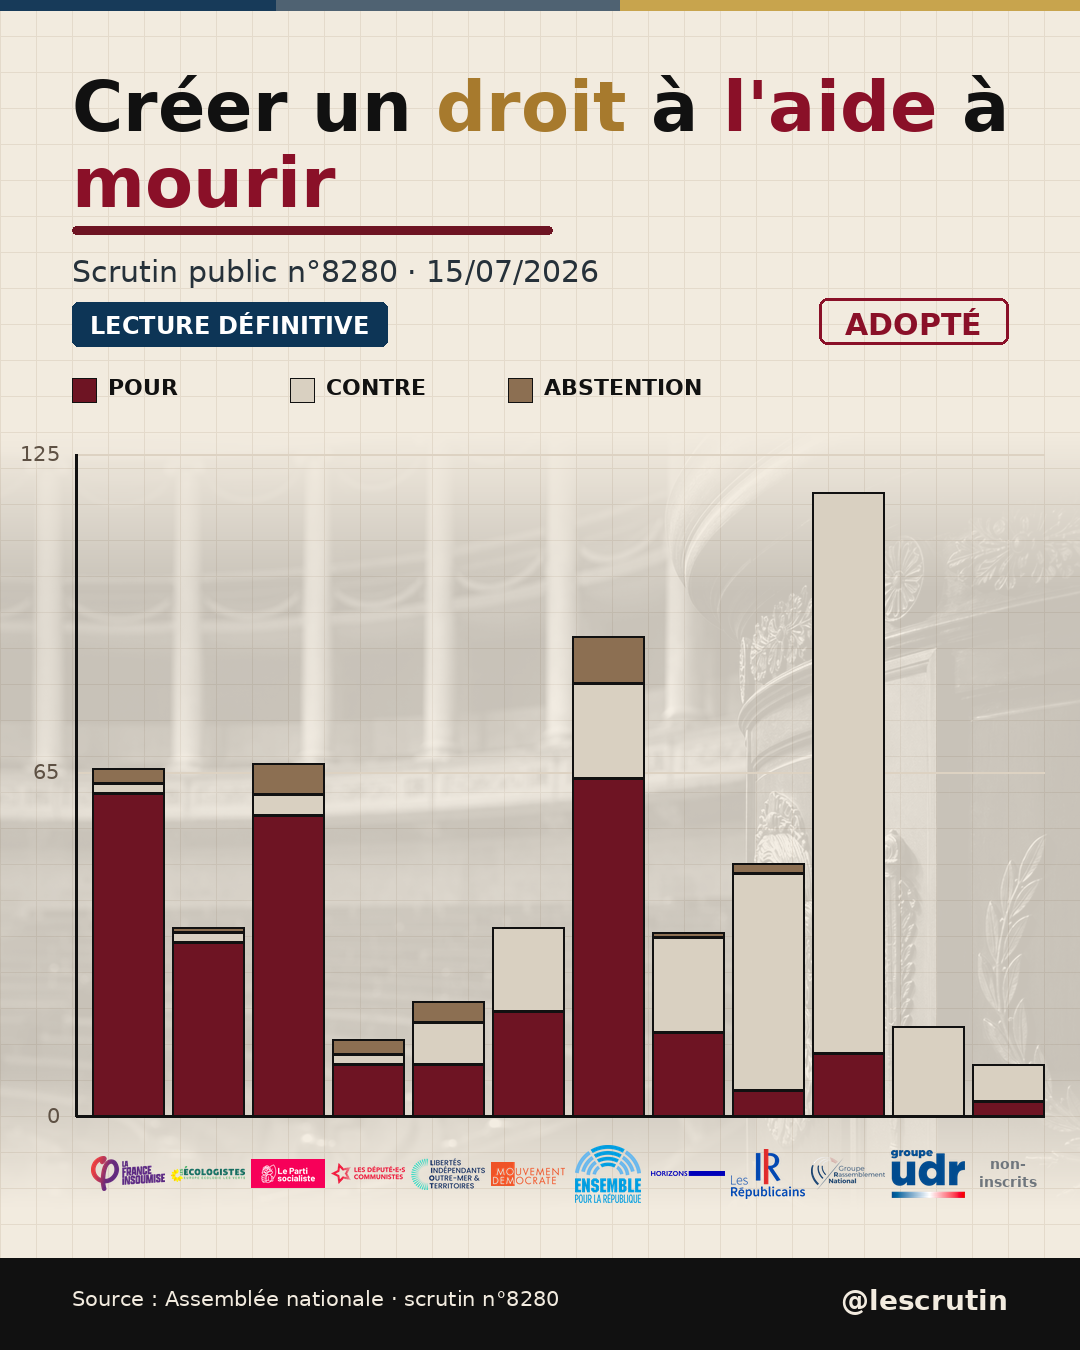
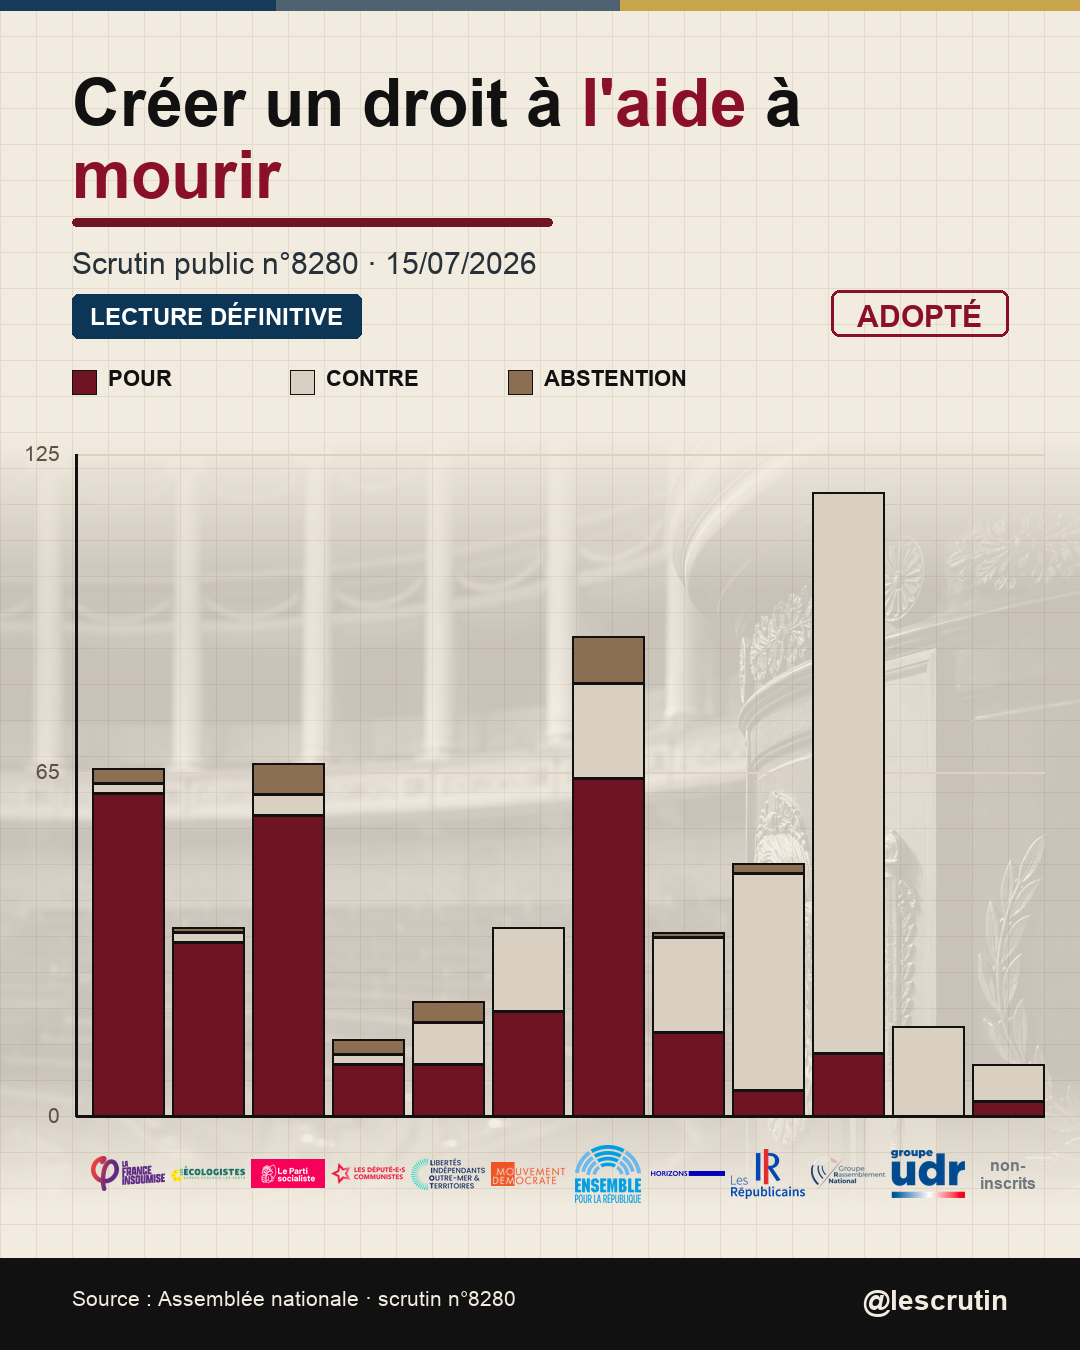
Refine vote 8280 title accent [publish-vote-now]

diff --git a/src/assemblee_votes/visual.py b/src/assemblee_votes/visual.py
@@ -118,7 +118,7 @@ def _title_color(word: str, default: str) -> str:
         "MINEURS",
     }:
         return "#8A1028"
-    if normalized in {"DROIT", "LOI", "VOTE", "TEXTE"}:
+    if normalized in {"LOI", "VOTE", "TEXTE"}:
         return "#A77A2D"
     return default
 
@@ -305,7 +305,7 @@ def draw_card(scrutin: dict[str, Any], output: str | Path, config_path: str | Pa
         _short_title(scrutin),
         WIDTH - 2 * MARGIN,
         max_lines=3,
-        start_size=70,
+        start_size=66,
         min_size=50,
         bold=True,
     )
